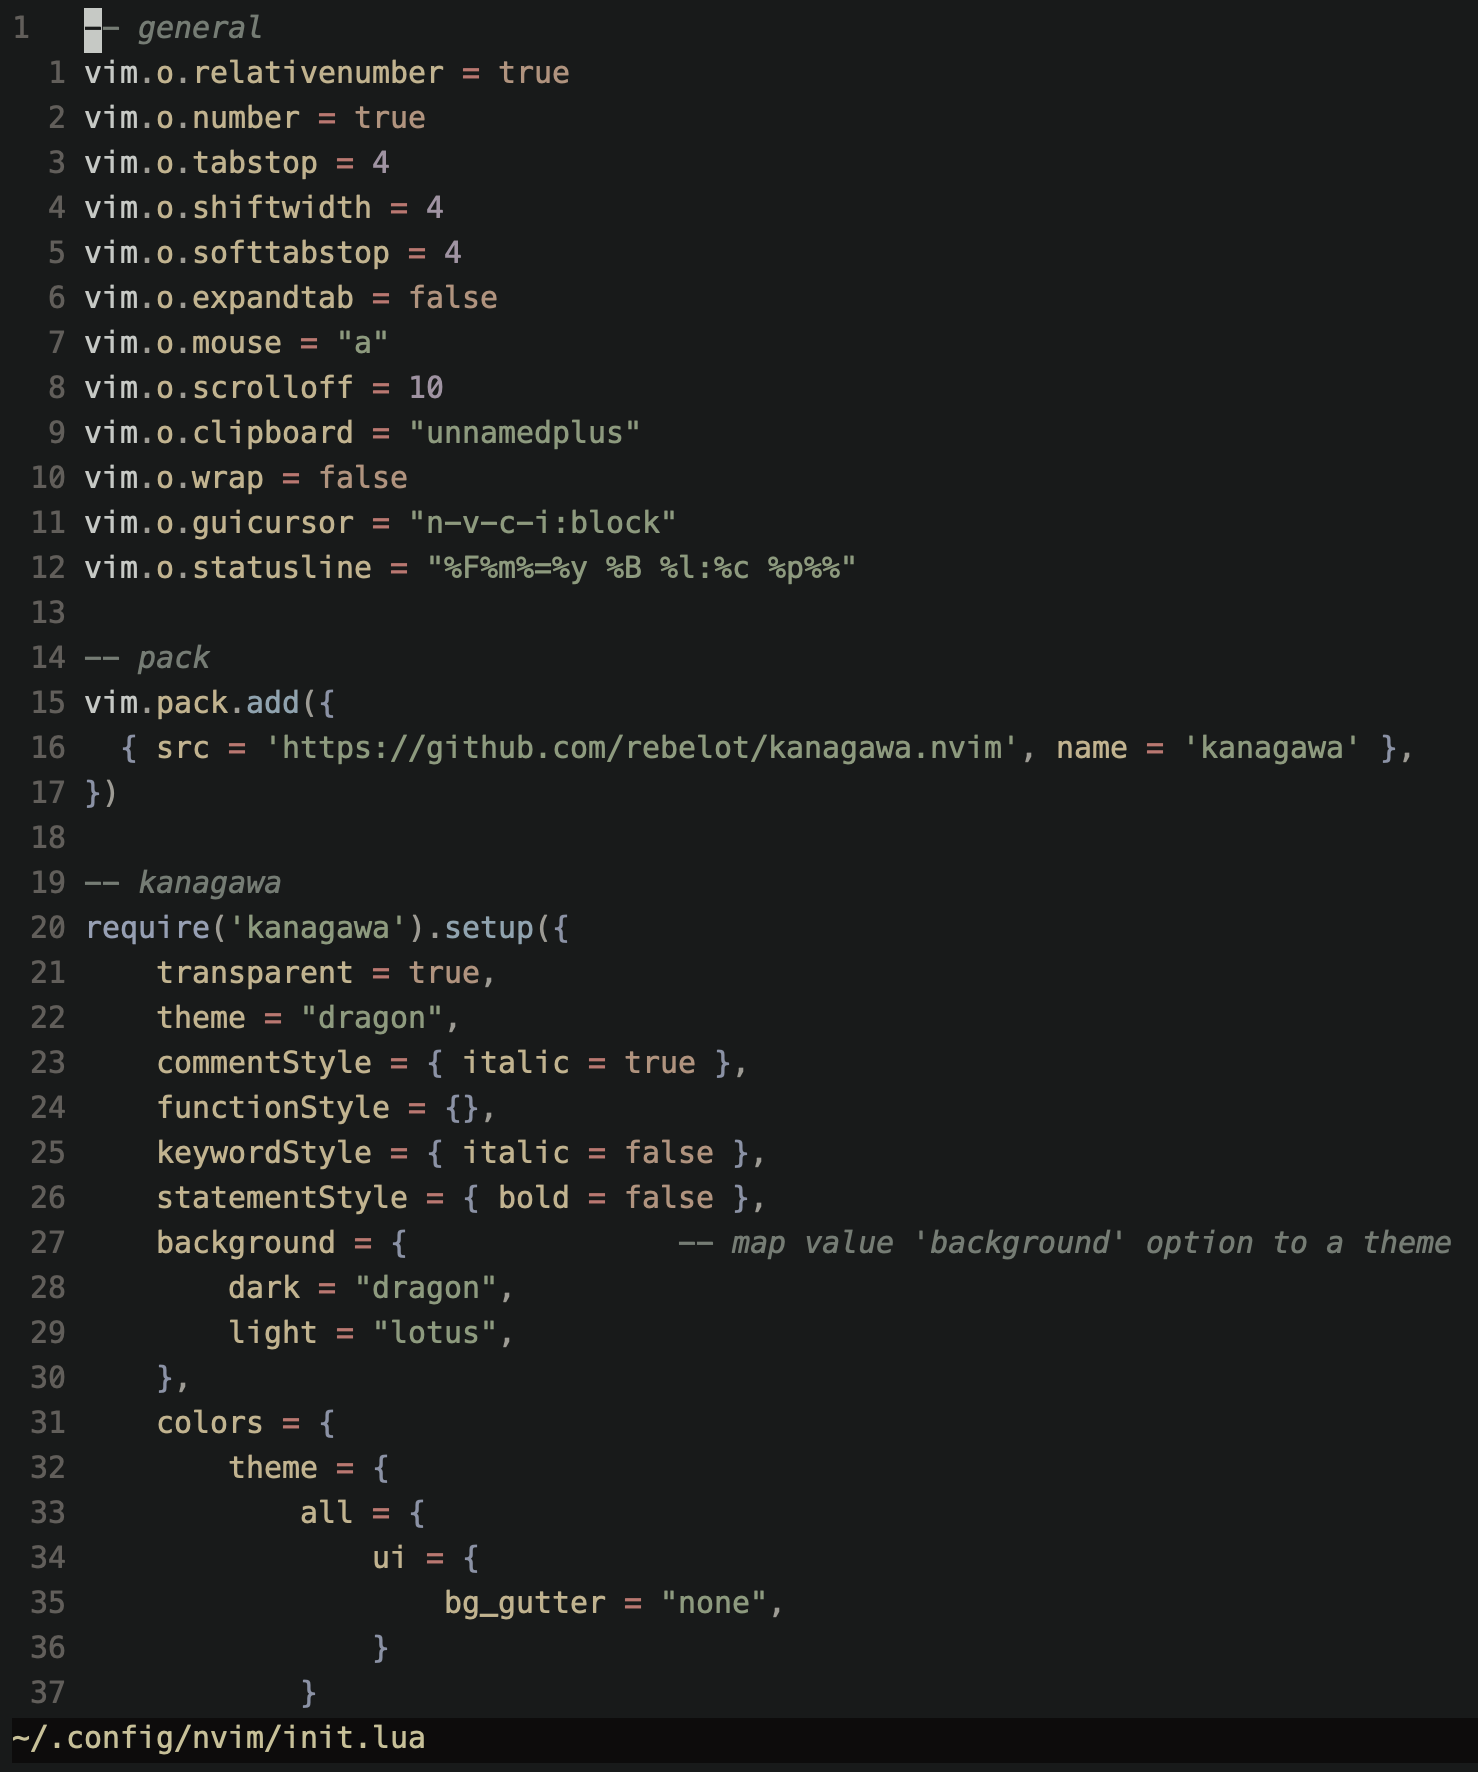
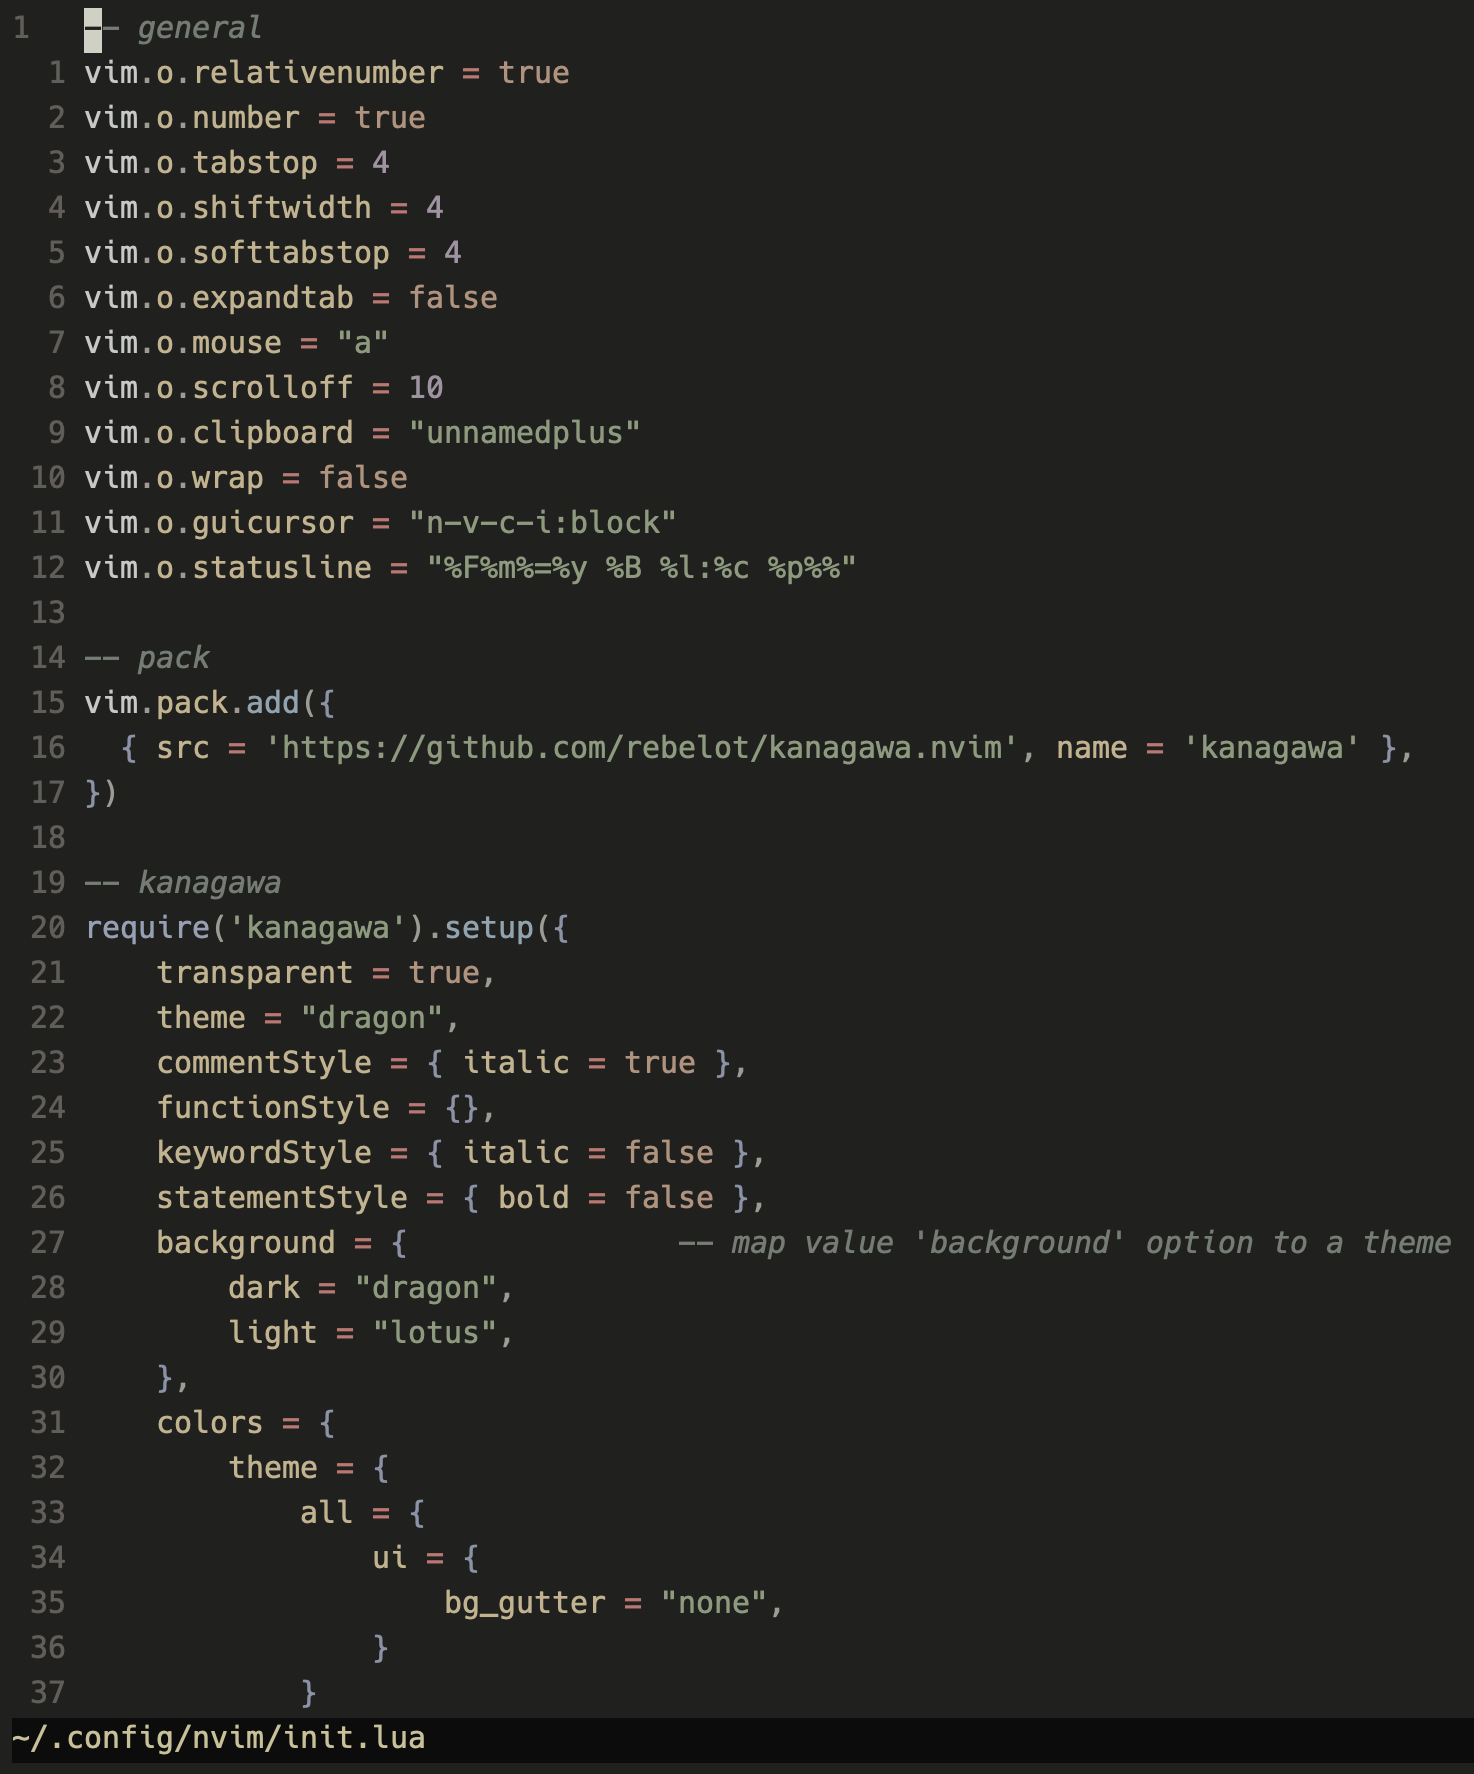
update README and screenshot

diff --git a/README.md b/README.md
@@ -6,19 +6,18 @@
 
 # changelog
 - implemented purely on top of Bitstream Vera Sans Mono
-- remove bottom serifs from `i`, extend top-left serif, shift right for optical balance
+- tailed 'i' derived from 'l',
 - enlarged, vertically-centered `*`
 - increase gap between `=` bars
-- shift oblique `j` left for consistency with roman
+- operator horizontal line thickness thickened and standardized
 - small centering tweaks for `+`
-- widen `-`, decrease thickness to match `+`
 - vertically center `~`
 - raise `_` to just-below baseline, optically center for oblique
 - standardize tiny inconsistencies and misalignments in `.`, `,`, `:`, and `;`
 - slashed `0`
 - slightly lower `l` ascender to match other ascenders
-- center `'`, and `'`
 - extend slash/backslash to match parens/brackets/braces
-- programmatically realign obliques using script against the x-height center of upright
+- vertically align and fit bar/pipe to braces
+- realign obliques using script against the x-height center of upright
 - `cv01` is a curly-tailed `i` derived from the `l` glyph
 - widen quotes, enlarge period, ellipsis, comma, semicolon, consolidate non-ascii punctuation into ascii variants, widen underscore, widen hyphen, en-dash and em-dash now just use hyphen component